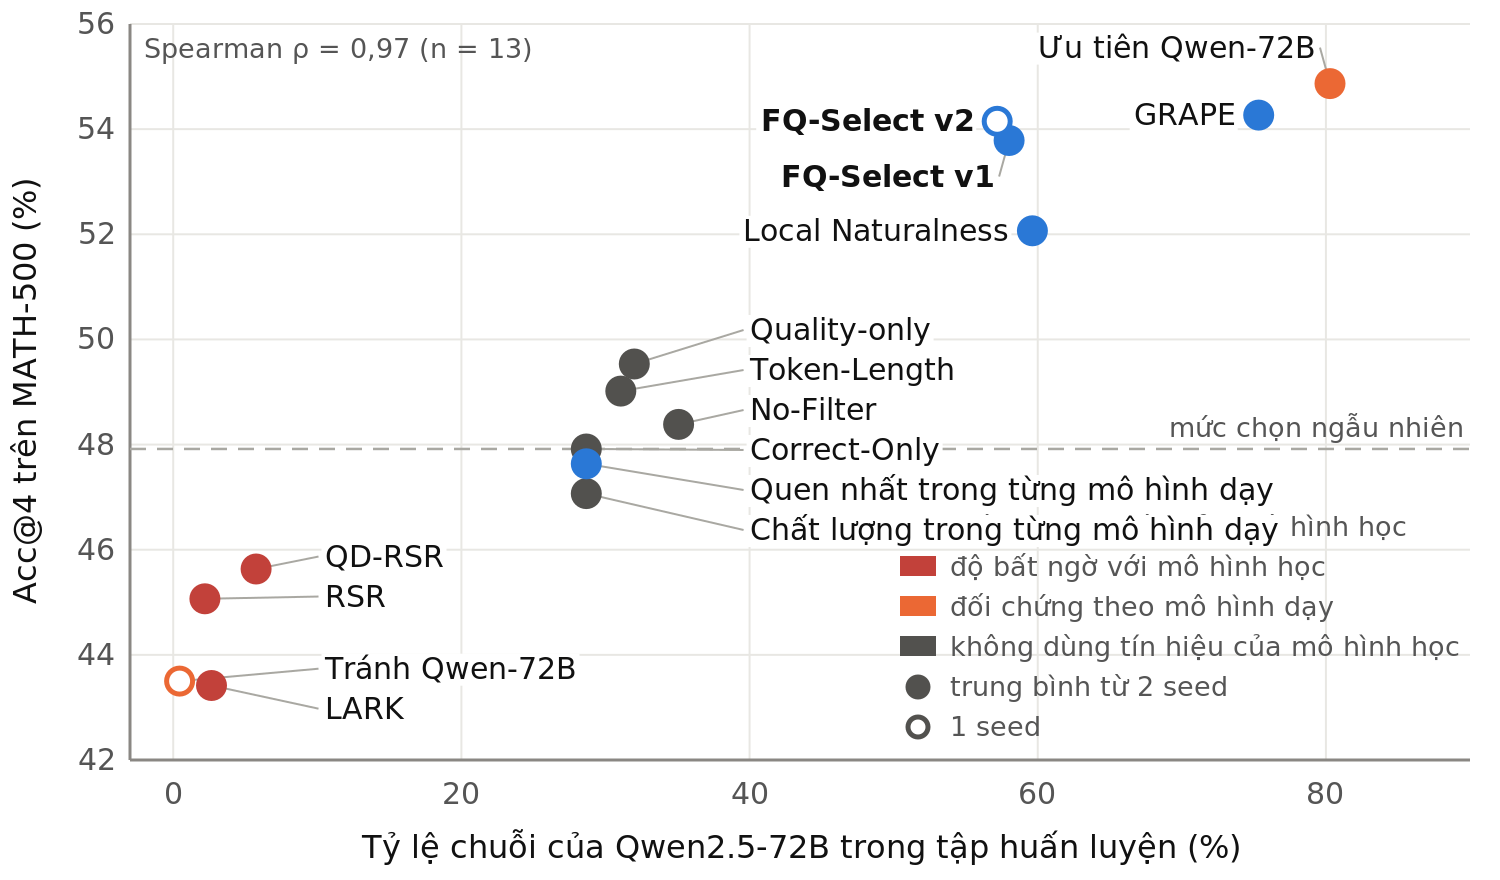
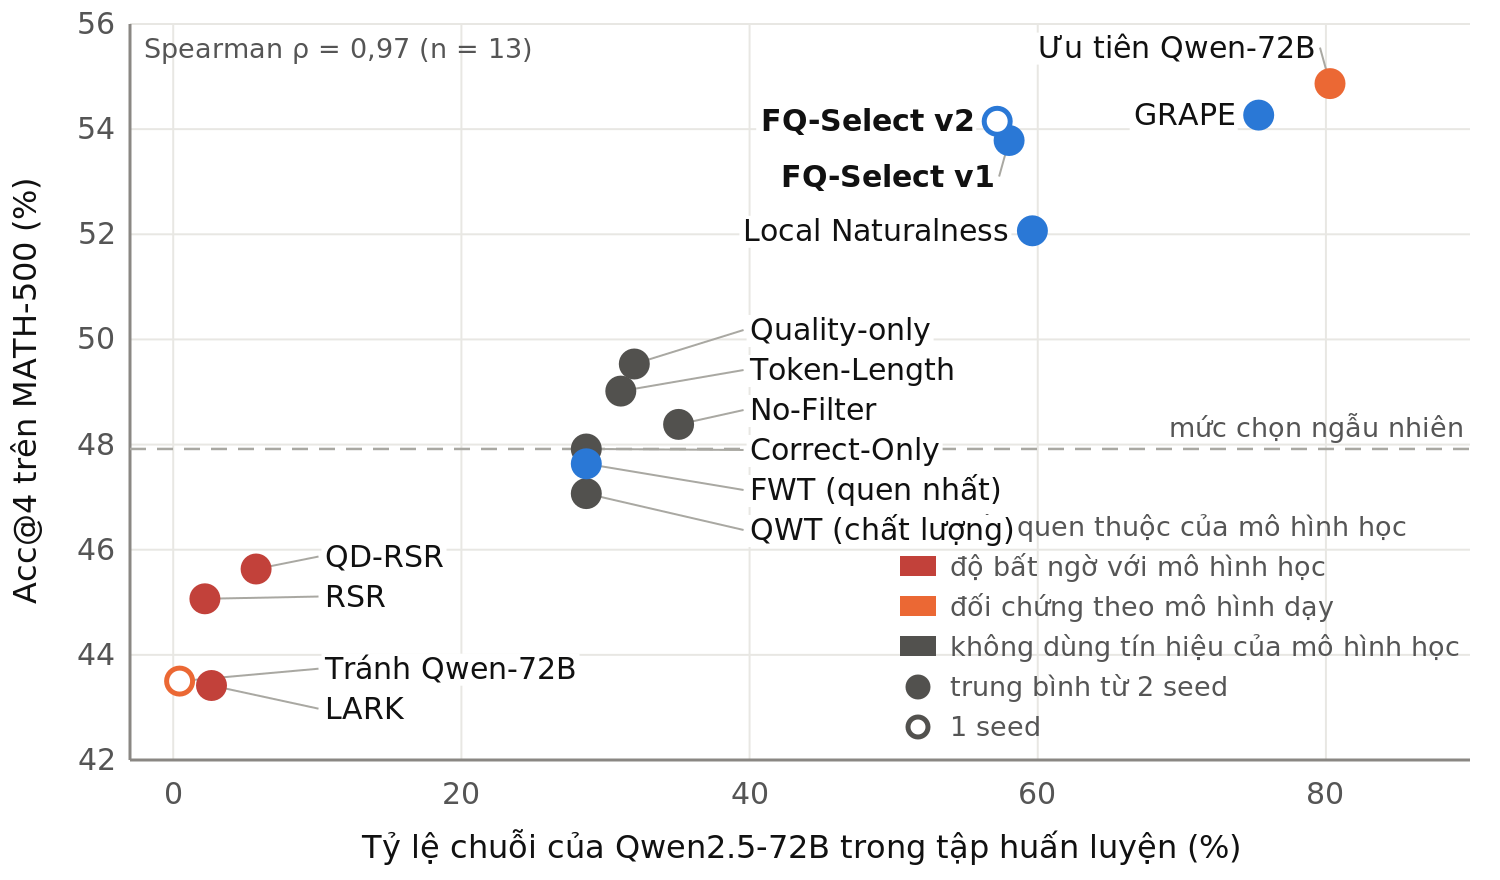
Hình 2 tiếng Việt: rút nhãn FWT, QWT để không đè chú giải; sửa test

Changed region(s): [[0.4907, 0.5216, 0.8587, 0.6136]]

diff --git a/src/tools/make_figures.py b/src/tools/make_figures.py
@@ -516,10 +516,10 @@ RESULT_SETS = {
     "correct_only.k3": ("Correct-Only", "Correct-Only", "free"),
     "token_length.k3": ("Token-Length", "Token-Length", "free"),
     "quality_only.k3": ("Quality-only", "Quality-only", "free"),
-    "quality_within_teacher.k3": ("Quality within teacher", "Chất lượng trong từng mô hình dạy", "free"),
+    "quality_within_teacher.k3": ("Quality within teacher", "QWT (chất lượng)", "free"),
     "grape.k3": ("GRAPE", "GRAPE", "student"),
     "local_naturalness.k3": ("Local Naturalness", "Local Naturalness", "student"),
-    "familiarity_within_teacher.k3": ("Familiarity within teacher", "Quen nhất trong từng mô hình dạy", "student"),
+    "familiarity_within_teacher.k3": ("Familiarity within teacher", "FWT (quen nhất)", "student"),
     "fq_select.k3": ("FQ-Select v1", "FQ-Select v1", "student"),
     "fq_veto_judge.k3": ("FQ-Select v2", "FQ-Select v2", "student"),
     "rsr.k3": ("RSR", "RSR", "surprise"),

diff --git a/tests/tools/test_make_figures.py b/tests/tools/test_make_figures.py
@@ -230,7 +230,7 @@ def test_spearman_matches_known_values():
 
 
 @pytest.mark.parametrize("lang,needles", [("en", ["Prefer Qwen-72B", "mean of 2+ seeds", "teacher-identity control"]),
-                                          ("vi", ["Ưu tiên Qwen-72B", "trung bình từ 2 seed", "mức Correct-Only"])])
+                                          ("vi", ["Ưu tiên Qwen-72B", "trung bình từ 2 seed", "mức chọn ngẫu nhiên"])])
 def test_teacher_share_figure_uses_circles_only(lang, needles):
     rows = [{"tag": "correct_only.k3", "en": "Correct-Only", "vi": "Correct-Only", "group": "free", "seeds": 2,
              "acc": 47.6, "share": 28.7},
